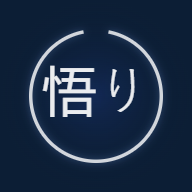
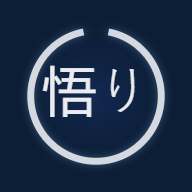
v2.13.63: Satori ikony — hrubšie čiary enso kruhu

Changed region(s): [[0.125, 0.125, 0.875, 0.875]]

diff --git a/icon_generator.html b/icon_generator.html
@@ -1,0 +1,96 @@
+<!DOCTYPE html>
+<html>
+<head>
+<meta charset="UTF-8">
+<title>Satori icon generator</title>
+<style>
+  body { background:#1a1a2e; color:#fff; font-family:sans-serif; padding:32px; display:flex; flex-direction:column; align-items:center; gap:24px; }
+  canvas { border-radius:22%; display:block; }
+  .row { display:flex; gap:32px; align-items:flex-end; }
+  .col { display:flex; flex-direction:column; align-items:center; gap:12px; }
+  button { background:#2563EB; color:#fff; border:none; padding:10px 22px; border-radius:8px; cursor:pointer; font-size:14px; }
+  button:hover { background:#1D4ED8; }
+  label { font-size:12px; color:#94a3b8; }
+</style>
+</head>
+<body>
+<h2 style="margin:0">Satori — icon generator</h2>
+<div class="row">
+  <div class="col">
+    <label>512 × 512</label>
+    <canvas id="c512" width="512" height="512"></canvas>
+    <button onclick="dl('c512','icon-512.png')">⬇ Stiahnuť icon-512.png</button>
+  </div>
+  <div class="col">
+    <label>192 × 192</label>
+    <canvas id="c192" width="192" height="192"></canvas>
+    <button onclick="dl('c192','icon-192.png')">⬇ Stiahnuť icon-192.png</button>
+  </div>
+</div>
+<p style="color:#64748b;font-size:12px">Ulož oba súbory do koreňového adresára projektu (vedľa index.html).</p>
+
+<script>
+function drawIcon(canvas) {
+  var s = canvas.width;
+  var ctx = canvas.getContext('2d');
+  var cx = s / 2, cy = s / 2;
+  var R = s * 0.34; // polomer enso
+
+  // Pozadie
+  ctx.fillStyle = '#0C1E35';
+  ctx.fillRect(0, 0, s, s);
+
+  // Jemné radiálne svetlo v strede
+  var grad = ctx.createRadialGradient(cx, cy, 0, cx, cy, s * 0.5);
+  grad.addColorStop(0, 'rgba(30,58,138,0.35)');
+  grad.addColorStop(1, 'rgba(12,30,53,0)');
+  ctx.fillStyle = grad;
+  ctx.fillRect(0, 0, s, s);
+
+  // Enso — medzera hore (11° na každú stranu od 270°, teda 259°–281°)
+  var gapHalf = 11 * Math.PI / 180;
+  var startA = -Math.PI/2 + gapHalf;  // 259°
+  var endA   = -Math.PI/2 - gapHalf;  // 281° (= -101°)
+
+  // Glow pod enso
+  ctx.save();
+  ctx.shadowColor = 'rgba(140,185,255,0.45)';
+  ctx.shadowBlur = s * 0.04;
+  ctx.beginPath();
+  ctx.arc(cx, cy, R, startA, endA, false);
+  ctx.strokeStyle = 'rgba(255,255,255,0.80)';
+  ctx.lineWidth = s * 0.036;
+  ctx.lineCap = 'butt';
+  ctx.stroke();
+  ctx.restore();
+
+  // Kanji 悟り — glow vrstva
+  var fontSize = s * 0.28;
+  ctx.font = fontSize + 'px serif';
+  ctx.textAlign = 'center';
+  ctx.textBaseline = 'middle';
+  ctx.fillStyle = 'rgba(255,255,255,0.10)';
+  ctx.shadowColor = 'rgba(60,130,245,0.5)';
+  ctx.shadowBlur = s * 0.06;
+  ctx.fillText('悟り', cx, cy);
+
+  // Kanji — hlavná vrstva
+  ctx.shadowBlur = 0;
+  ctx.fillStyle = 'rgba(255,255,255,0.90)';
+  ctx.fillText('悟り', cx, cy);
+}
+
+var c512 = document.getElementById('c512');
+var c192 = document.getElementById('c192');
+drawIcon(c512);
+drawIcon(c192);
+
+function dl(id, name) {
+  var a = document.createElement('a');
+  a.download = name;
+  a.href = document.getElementById(id).toDataURL('image/png');
+  a.click();
+}
+</script>
+</body>
+</html>
